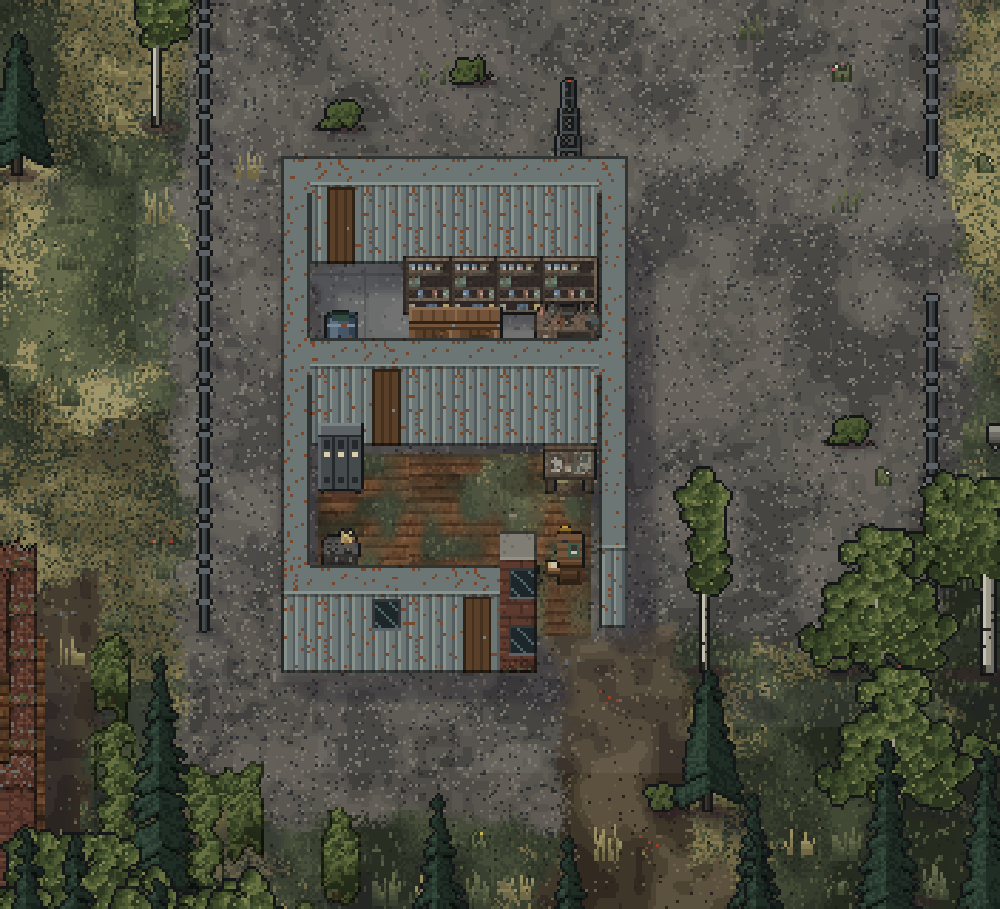
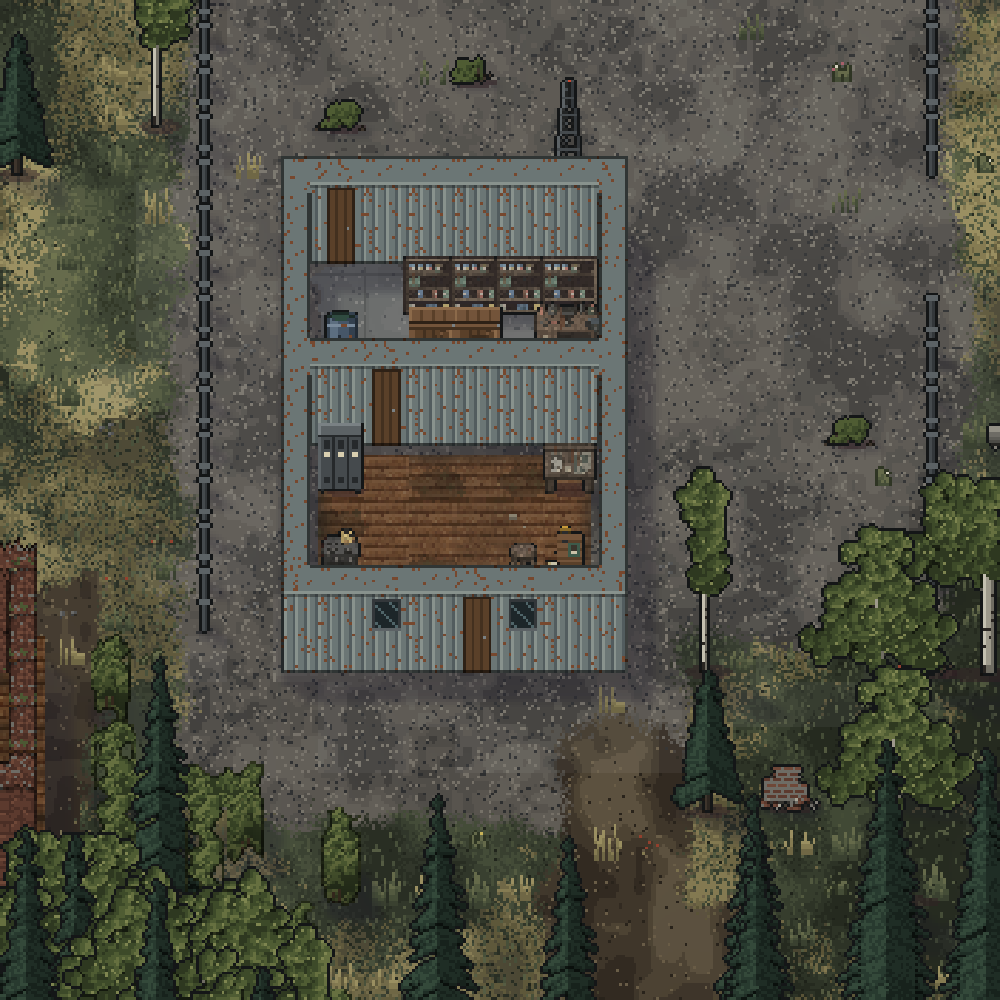
Fix radio shed wall (road cleared its south wall); lookdump harness command
Claude-Session: https://claude.ai/code/session_01Jpd5tdDJTR7BVueAYV1KDM

diff --git a/Tools/compile_check/test/Program.cs b/Tools/compile_check/test/Program.cs
@@ -7,6 +7,7 @@ static class Program {
     // from the last one's squads - the checks and the scene dumps drifted. Every run starts clean.
     try { System.IO.File.Delete(System.IO.Path.Combine(System.IO.Directory.GetCurrentDirectory(), "offline_squads.json")); } catch { }
     if (args.Length > 0 && args[0] == "lakeeel") { LakeEelDump(); return 0; }
+    if (args.Length > 5 && args[0] == "lookdump") { MacroState.Current.CurrentZoneId = args[1]; TerrainMap.BuildTerrainForZone(args[1]); int lx = int.Parse(args[2]), ly = int.Parse(args[3]), lw = int.Parse(args[4]), lh = int.Parse(args[5]); for (int yy = ly; yy < ly + lh; yy++) { var sb = new System.Text.StringBuilder(yy + ": "); for (int xx = lx; xx < lx + lw; xx++) { var t = TerrainMap.GetTile(xx, yy); sb.Append((t.Type.ToString().Substring(0, 2) + "/" + (t.Look ?? "-")).PadRight(13)); } Console.WriteLine(sb); } return 0; }
     if (args.Length > 0 && args[0] == "pistolttk") { PistolTtk(); return 0; }
     if (args.Length > 0 && args[0] == "mutantmaps") { MutantMaps(); return 0; }
     if (args.Length > 0 && args[0] == "mutanthits") { MutantHits(); return 0; }

diff --git a/Assets/Scripts/GameCore/TierMaps.cs b/Assets/Scripts/GameCore/TierMaps.cs
@@ -466,7 +466,7 @@ namespace GameCore
             c.Clear(94, 31, 11, 13, Gravel); Interiors.Stamp(c, 96, 31, Interiors.HutB, Interiors.HutBFloor, "metal", "workshop");   // the equipment shed: office and store (Gemini two-room hut, mirrored)
             c.Fence(94, 24, 110, 24).Fence(94, 24, 94, 39).Fence(110, 24, 110, 39, "fence", 6, 3);
             c.Landmark("Radio Mast", 102, 33);
-            c.Road(3, Dirt, (106, 70), (104, 50), (103, 41));
+            c.Road(3, Dirt, (106, 70), (104, 50), (103, 43));   // ended at y41, inside the shed's new south wall
 
             // ================================================================ TOXIC MARSHES
             // The Causeway: the boardwalk north through the marsh to The Scrapyard

diff --git a/ArtSource/WORK_LOG.md b/ArtSource/WORK_LOG.md
@@ -7458,3 +7458,6 @@ Yan: "the artstyle is not consistent on the furniture, some have hard black outl
 
 ## Batch 9ga (2026-11-27) - Gemini two-room hut (prompt 3)
 - Yan's third Gemini plan: the grid is square and aligned (6 columns; store 3 rows, office 4 rows, as asked), the dividing wall has a 1-square door, an outside door in the top wall at the right and one at the front, windows where asked; items at their sizes (long shelf 4 wide, desk 1x2 vertical on the left wall, stove, filing cabinet, crates, barrels, workbench, notice board). Read in cells and built as `Interiors.HutA/HutB` (mirrored) plus `HutSignal` (lockers as panels, radio tables) and `HutLoading` (counter, boxes): 8x10 outer, interior 6x3 store behind 6x4 office. Two crates/barrel positions were nudged so the back door is not boxed in. Used at the Signal Box (brick, one storey) and the Radio Mast's equipment shed (metal). Not used: the Loading Office (it holds the smugglers' hatch), the Rail Depot offices, the Track Workers' Hut, Generator Shed, Blast Shack (hatch/stash positions fixed in the map). The two-storey `wall`/`concrete` look hid the rooms again, so use `brick`, `metal`, `plank` or `stucco` for huts. Harness passes (4 plans); not run in Unity.
+
+## Batch 9gb (2026-11-27) - the radio shed's broken front wall
+- Yan: the second image (the Radio Mast shed) was broken: the front wall was missing right of the door and a brick window column stood in its place. Cause: `c.Road(3, Dirt, ..., (103, 41))` ends in the shed's new south wall (the old hut was shorter) and a 3-wide road clears the walls under it. The road now ends at y43. New harness command `lookdump <map> x y w h` prints tile type/look for a box (used to find it). Harness passes. Lesson: any map line after a plan (roads, fences, clears) can erase plan tiles; an integrity check for plans is on the proposal list.
